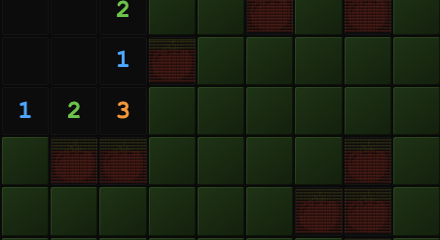
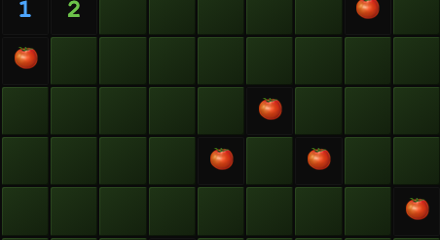
Tomatoswipe: revert to plain emoji (🍅 mines, 🥫 on squash)
Drop the braille tomato/can entirely — mines are 🍅, the dug-up one is 🥫.
Removes the TMT/CAN/TMT_HTML constants, the .tmt CSS and the --tmt-fs sizing.
Thumbnail regenerated from the emoji board.

diff --git a/game/tomatoswipe.html b/game/tomatoswipe.html
@@ -27,9 +27,7 @@
   .face:hover{border-color:#1db954;background:rgba(29,185,84,0.07);}
 
   .board{display:grid;gap:2px;width:min(92vw,460px);margin:0 auto;background:#0a0a0a;border:1px solid #1a1a1a;padding:4px;user-select:none;-webkit-user-select:none;-webkit-touch-callout:none;touch-action:manipulation;}
-  .cell{aspect-ratio:1;display:flex;align-items:center;justify-content:center;font-weight:700;line-height:1;border-radius:2px;cursor:pointer;overflow:hidden;}
-  .tmt{margin:0;line-height:1.0;white-space:pre;font-family:Consolas,'Courier New',monospace;color:#e2523e;font-size:var(--tmt-fs,3px);transform:scaleX(0.78);text-shadow:0 0 2px rgba(226,82,62,0.5);}
-  .tmt.can{color:#dcdcdc;text-shadow:0 0 2px rgba(0,0,0,0.6);}
+  .cell{aspect-ratio:1;display:flex;align-items:center;justify-content:center;font-weight:700;line-height:1;border-radius:2px;cursor:pointer;}
   .cell.hidden{background:linear-gradient(145deg,#1f3416,#13200d);box-shadow:inset 1px 1px 0 rgba(124,206,90,0.13),inset -1px -1px 0 rgba(0,0,0,0.4);}
   .cell.hidden:hover{background:linear-gradient(145deg,#274119,#192b10);}
   .cell.flag{color:#e2523e;}
@@ -124,41 +122,7 @@
    ============================================================================ */
 const game = (function () {
   const $ = (id) => document.getElementById(id);
-  const TMT =
-`⠀⠀⠀⠀⠀⠀⠀⠀⠀⠀⠀⠀⠀⠀⠀⣀⠀⠀⠀⠀⠀⠀⠀⠀⠀⠀⠀⠀⠀⠀
-⠀⠀⠀⠀⠀⠀⠀⠀⠀⠀⠀⠀⠀⠀⠀⣿⠀⠀⠀⠀⠀⠀⠀⠀⠀⠀⠀⠀⠀⠀
-⠀⠀⠀⠀⠀⠀⠀⠀⠀⠀⠛⠻⣶⡆⠀⠿⠀⣶⠒⠊⠀⠀⠀⠀⠀⠀⠀⠀⠀⠀
-⠀⠀⠀⠀⠀⠀⠀⠀⢀⣀⣴⠾⠛⢹⣶⡤⢶⣿⡟⠶⠦⠄⠀⠀⠀⠀⠀⠀⠀⠀
-⠀⠀⠀⠀⠀⣠⣶⣤⣤⣤⣤⣴⠂⠸⠋⢀⣄⡉⠓⠀⠲⣶⣾⣿⣷⣄⠀⠀⠀⠀
-⠀⠀⠀⢀⣾⡿⠋⠁⣠⣤⣿⡟⢀⣠⣾⣿⣿⣿⣷⣶⣤⣼⣿⣿⣿⣿⣆⠀⠀⠀
-⠀⠀⠀⣾⡟⠀⣰⣿⣿⣿⣿⣷⣿⣿⣿⣿⣿⣿⣿⣿⣿⣿⣿⣿⣿⣿⣿⡄⠀⠀
-⠀⠀⢸⡿⠀⣼⣿⣿⣿⣿⣿⣿⣿⣿⣿⣿⣿⣿⣿⣿⣿⣿⣿⣿⣿⣿⣿⡇⠀⠀
-⠀⠀⢸⡇⢰⣿⣿⣿⣿⣿⣿⣿⣿⣿⣿⣿⣿⣿⣿⣿⣿⣿⣿⣿⣿⣿⣿⡇⠀⠀
-⠀⠀⢸⣿⣾⣿⣿⣿⣿⣿⣿⣿⣿⣿⣿⣿⣿⣿⣿⣿⣿⣿⣿⣿⣿⣿⣿⡇⠀⠀
-⠀⠀⠸⣿⣿⣿⣿⣿⣿⣿⣿⣿⣿⣿⣿⣿⣿⣿⣿⣿⣿⣿⣿⣿⣿⣿⣿⠁⠀⠀
-⠀⠀⠀⢻⣿⣿⣿⣿⣿⣿⣿⣿⣿⣿⣿⣿⣿⣿⣿⣿⣿⣿⣿⣿⣿⣿⠃⠀⠀⠀
-⠀⠀⠀⠀⠙⢿⣿⣿⣿⣿⣿⣿⣿⣿⣿⣿⣿⣿⣿⣿⣿⣿⣿⣿⠟⠁⠀⠀⠀⠀
-⠀⠀⠀⠀⠀⠀⠉⠛⠿⢿⣿⣿⣿⣿⣿⣿⣿⣿⣿⣿⡿⠟⠋⠀⠀⠀⠀⠀⠀⠀
-⠀⠀⠀⠀⠀⠀⠀⠀⠀⠀⠀⠀⠉⠉⠉⠉⠉⠉⠁⠀⠀⠀⠀⠀⠀⠀⠀⠀⠀⠀`;
-  const CAN =
-`⠀⠀⠀⠀⠀⠀⠀⠀⠀⠀⠀⠀⠀⠀⠀⢀⣀⠀⠀⠀⠀⠀⠀⠀⠀⠀⠀⠀⠀⠀
-⠀⠀⠀⠀⠀⠀⠀⠀⠀⠀⠀⠀⠀⠀⠀⣸⣿⣿⣷⣶⣤⣄⣀⡀⠀⠀⠀⠀⠀⠀
-⠀⠀⠀⠀⠀⠀⠀⠀⠀⠀⠀⠀⠀⠀⠀⢠⣈⣉⠛⠛⠿⢿⣿⠇⠀⠀⠀⠀⠀⠀
-⠀⠀⠀⠀⠀⠀⠀⠀⠀⠀⠀⠀⠀⠀⠀⣾⠟⠛⠛⢷⣶⡄⠀⠀⠀⠀⠀⠀⠀⠀
-⠀⠀⠀⠀⠀⠀⠀⠀⠀⠀⠀⠀⠀⠀⣸⠇⢰⣿⣷⠈⣿⠁⠀⠀⠀⠀⠀⠀⠀⠀
-⠀⠀⠀⠀⠀⠀⠀⠀⠀⠀⣀⣤⣤⣶⣿⣆⠘⠛⠋⣰⡏⠀⠀⠀⠀⠀⠀⠀⠀⠀
-⠀⠀⠀⠀⠀⠀⠀⠀⠀⣸⣿⡿⠿⠿⠿⠿⢿⣶⣿⣿⣷⡀⠀⠀⠀⠀⠀⠀⠀⠀
-⠀⠀⠀⠀⠀⠀⠀⠀⢀⣿⡟⢠⣶⣶⣶⣦⣤⣈⠙⠿⣿⣿⣆⠀⠀⠀⠀⠀⠀⠀
-⠀⠀⠀⠀⠀⠀⠀⠀⣼⣿⠇⢸⣿⣿⠏⢹⣿⣿⣿⡆⢹⣿⡟⠀⠀⠀⠀⠀⠀⠀
-⠀⠀⠀⠀⠀⠀⠀⢰⣿⣿⠀⠋⣠⡄⢀⠀⠈⠻⡿⠁⣾⣿⠁⠀⠀⠀⠀⠀⠀⠀
-⠀⠀⠀⠀⠀⠀⢀⣿⣿⡇⠀⢸⣿⣿⣿⣿⣿⠆⠀⣼⣿⠇⠀⠀⠀⠀⠀⠀⠀⠀
-⠀⠀⠀⠀⠀⠀⣼⣿⣿⠁⣼⣄⠙⠻⠟⠛⢁⠀⢰⣿⡿⠀⠀⠀⠀⠀⠀⠀⠀⠀
-⠀⠀⠀⠀⠀⠀⠻⣿⣿⣤⣄⣉⠙⠒⠶⢿⠟⢠⣿⣿⠃⠀⠀⠀⠀⠀⠀⠀⠀⠀
-⠀⠀⠀⠀⠀⠀⠀⠀⠉⠙⠛⠿⢿⣿⣶⣶⣤⣿⣿⡏⠀⠀⠀⠀⠀⠀⠀⠀⠀⠀
-⠀⠀⠀⠀⠀⠀⠀⠀⠀⠀⠀⠀⠀⠀⠈⠉⠉⠉⠉⠁⠀⠀⠀⠀⠀⠀⠀⠀⠀⠀`;
   const DIFFS = { patch: { c: 9, r: 9, m: 12 }, plot: { c: 13, r: 13, m: 36 }, field: { c: 16, r: 16, m: 56 } };
-  // two-tone tomato (green calyx + red body) so it reads as a tomato even at cell size
-  const TMT_HTML = (function () { const L = TMT.split('\n'); return '<span style="color:#5fbf3f">' + L.slice(0, 4).join('\n') + '\n</span><span style="color:#e2523e">' + L.slice(4).join('\n') + '</span>'; })();
   let diff = 'patch', cols = 9, rows = 9, mines = 10, N = 81;
   let tomato, count, revealed, flagged, cells = [];
   let state = 'ready', flagMode = false, revealedCount = 0, flags = 0, exploded = -1;
@@ -187,7 +151,6 @@ const game = (function () {
     const w = board.clientWidth - 8 - (cols - 1) * 2;        // minus padding + gaps
     const cw = w / cols;
     board.style.fontSize = Math.max(8, Math.round(cw * 0.52)) + 'px';
-    board.style.setProperty('--tmt-fs', Math.max(1, cw * 0.062).toFixed(2) + 'px');   // braille tomato/can fills the cell (scaleX squashes the wide monospace art back round)
   }
 
   function placeMines(safe) {
@@ -262,7 +225,7 @@ const game = (function () {
   function renderCell(i) {
     const el = cells[i];
     if (revealed[i]) {
-      if (tomato[i]) { const boom = i === exploded; el.className = 'cell tom open' + (boom ? ' boom' : ''); el.innerHTML = '<pre class="tmt' + (boom ? ' can' : '') + '">' + (boom ? CAN : TMT_HTML) + '</pre>'; }
+      if (tomato[i]) { el.className = 'cell tom open' + (i === exploded ? ' boom' : ''); el.textContent = i === exploded ? '🥫' : '🍅'; }
       else { el.className = 'cell open' + (count[i] ? ' n' + count[i] : ''); el.textContent = count[i] ? count[i] : ''; }
     } else if (state === 'lost' && flagged[i] && !tomato[i]) { el.className = 'cell hidden wrong'; el.textContent = '✗'; }
     else { el.className = 'cell hidden' + (flagged[i] ? ' flag' : ''); el.textContent = flagged[i] ? '🚩' : ''; }